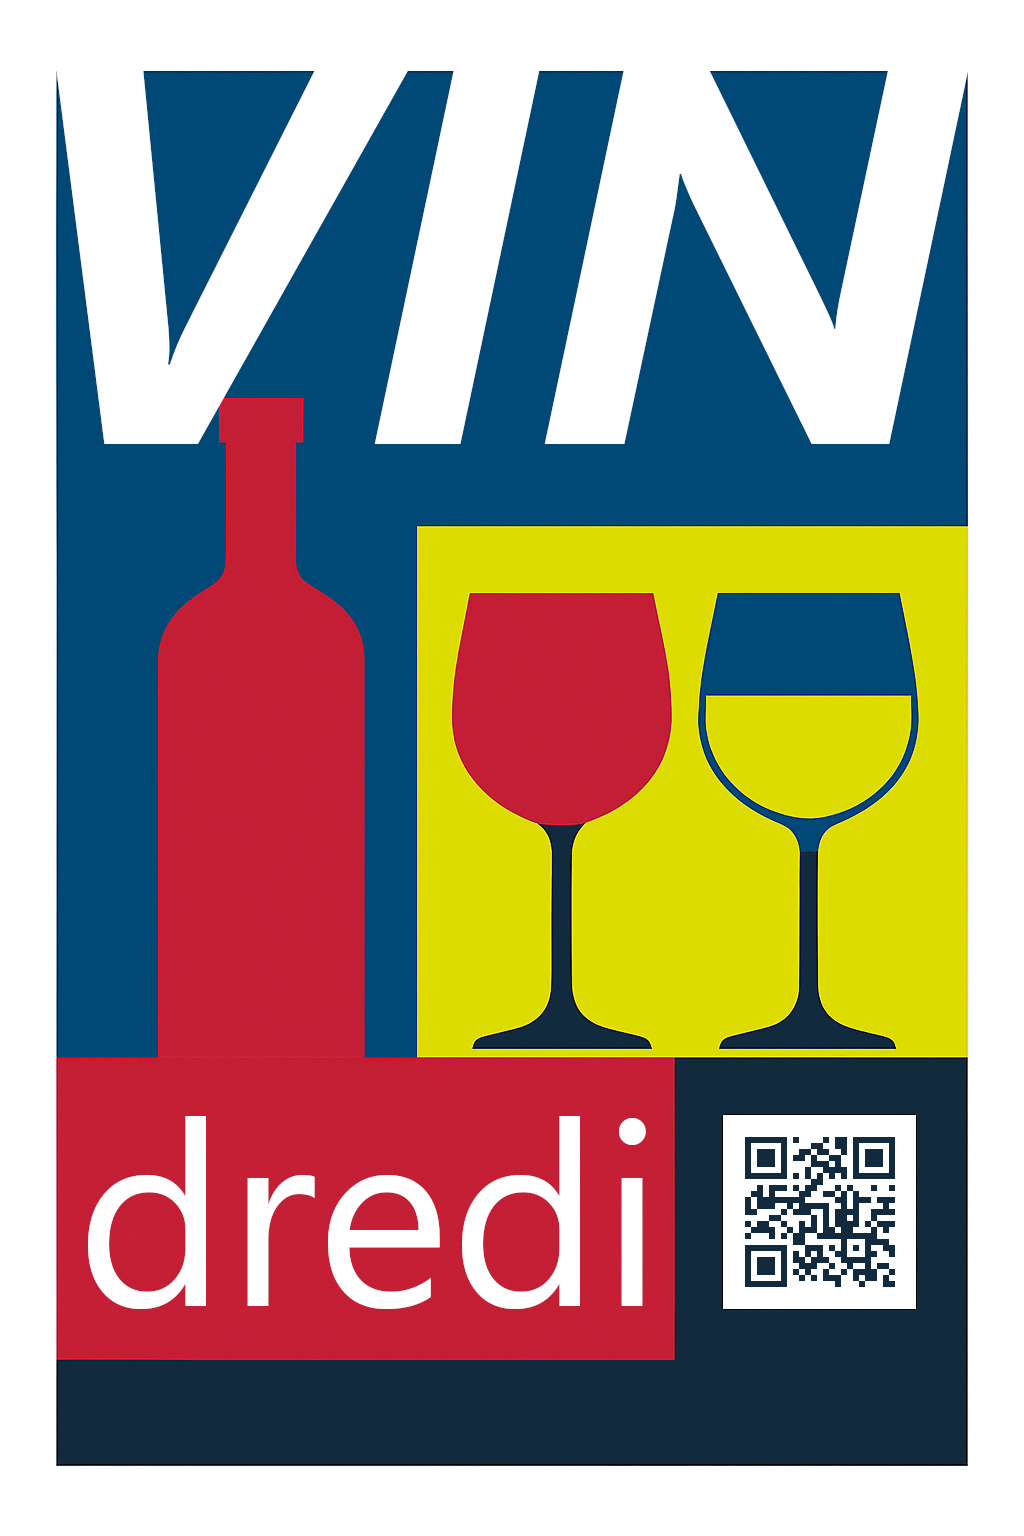
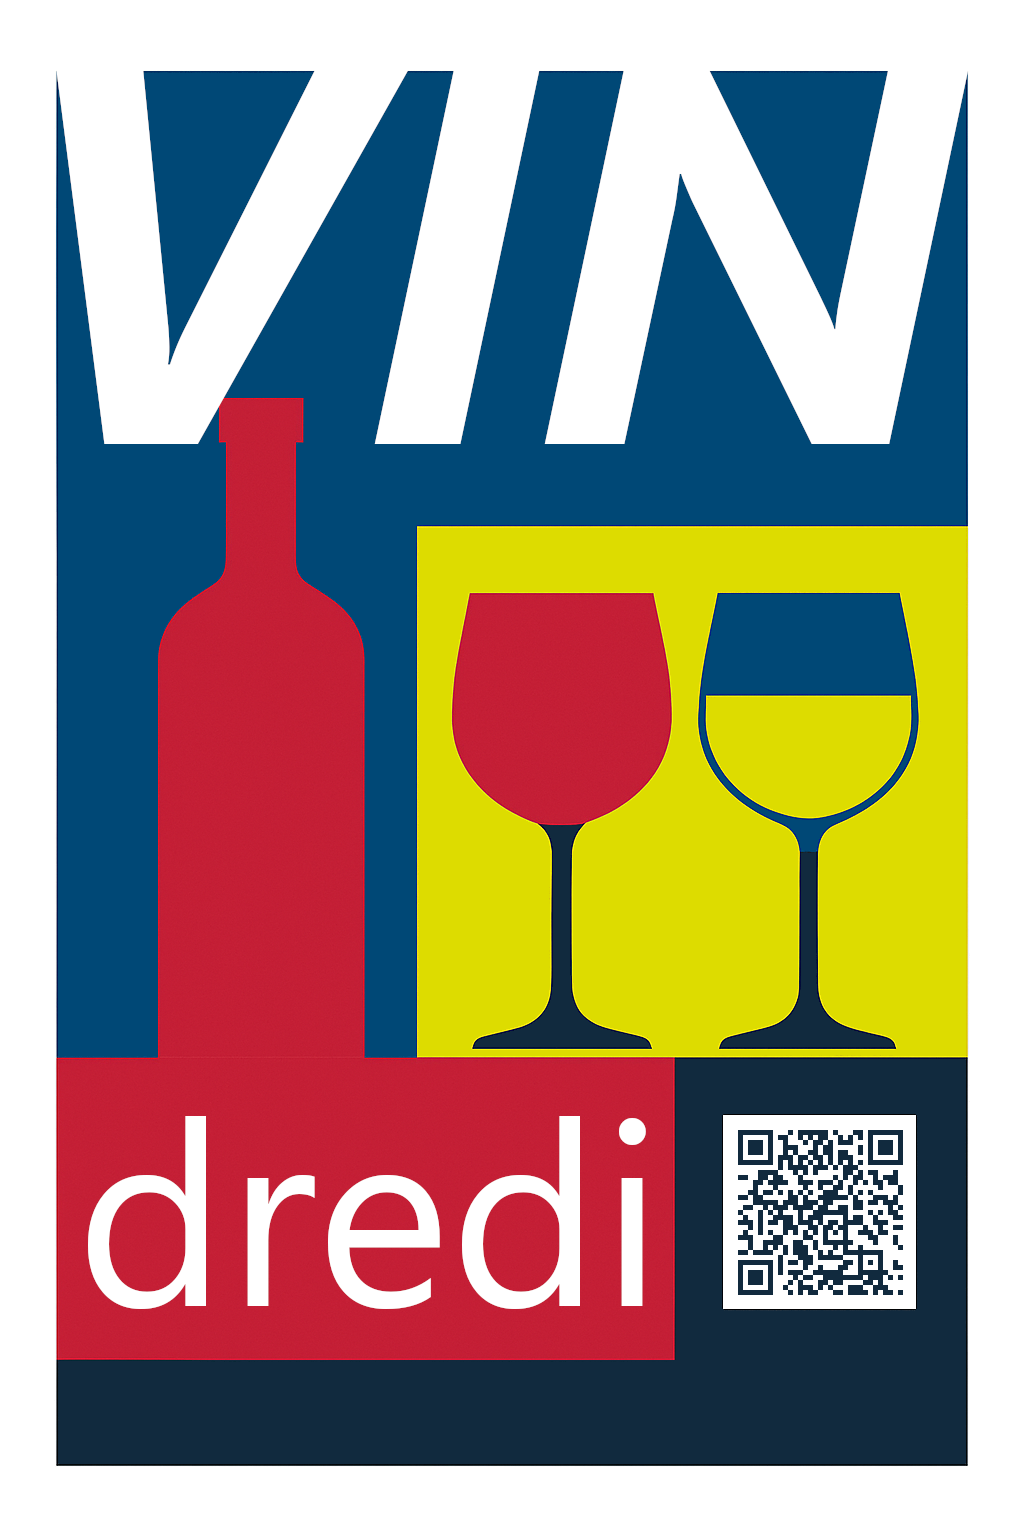
changed details and updated qr code for poster (print ready)

Changed region(s): [[0.7188, 0.7188, 0.9062, 0.8438]]

diff --git a/index.html b/index.html
@@ -158,9 +158,10 @@
                             Verkostungsabenteuer nicht mit anderen weinbegeisterten Kommiliton:innen zu teilen.<br><br>
                             Wenn Du also neugierig bist, wie irgendeine seltene Rebe abgefüllt von einem kleinen Weingut
                             in den
-                            1990ern schmeckt, dann bist Du hier genau richtig! Fragliche Qualität, garantierter
-                            Spaß!<br><br>
-                            Schreib mir einfach eine Nachricht bis Mittwoch vor der Verkostung und Du bekommst am
+                            1990ern schmeckt, dann bist Du hier genau richtig! <strong>Fragliche Qualität, garantierter
+                                Spaß!</strong><br><br>
+                            <a href="index.html#contact">Schreib mir einfach eine Nachricht</a> bis Mittwoch vor der
+                            Verkostung und Du bekommst am
                             Donnerstag
                             je nach Kapazität eine Zusage mit Details zum Treffpunkt - oder leider eine Absage. Unten
                             findest Du
@@ -169,7 +170,8 @@
                             heißt,
                             wenn Dir die Idee von einem Weinclub mit regelmäßigen Apéros und Blindverkostungen gefällt,
                             dann
-                            engagiere Dich und Freitag wird auch in Zukunft VINdredi sein!</p>
+                            <strong>engagiere Dich und Freitag wird auch in Zukunft VINdredi sein!</strong>
+                        </p>
                     </div>
                     <!-- About EN -->
                     <div class="col-lg-6 content-en" style="display: none;">
@@ -183,15 +185,18 @@
                             other wine-loving fellow students.<br><br>
                             So, if you're curious about how some rare grape variety bottled by a small winery in the
                             1990s
-                            tastes, then you're in the right place! Questionable quality, guaranteed fun!<br><br>
-                            Just send me a message by Wednesday before the tasting, and you'll receive a confirmation
+                            tastes, then you're in the right place! <strong>Questionable quality, guaranteed
+                                fun!</strong><br><br>
+                            <a href="index.html#contact">Just send me a message</a> by Wednesday before the tasting, and
+                            you'll receive a confirmation
                             with
                             details about the meeting point on Thursday if there is still capacity - or unfortunately, a
                             rejection. Below you will find the planned dates.<br><br>
                             This is still a young project that lacks everything except ideas. So, if you like the idea
                             of a wine
-                            club with regular aperitifs and blind tastings, get involved, and Friday will continue to be
-                            VINdredi in the future!</p>
+                            club with regular aperitifs and blind tastings, <strong>get involved, and Friday will
+                                continue to be VINdredi in the future!</strong>
+                        </p>
                     </div>
                     <!-- About FR -->
                     <div class="col-lg-6 content-fr" style="display: none;">
@@ -201,19 +206,21 @@
                             la main
                             sur une caisse de vieux vins et j'ai pensé qu'il serait dommage de ne pas partager cette
                             aventure de
-                            dégustation avec d'autres camarades amateurs de vin.<br><br>
-                            Donc, si vous êtes curieux de savoir comment goûte un cépage rare mise en bouteille par un
+                            dégustation avec d'autres camarades amateurs&middot;rice&middot;s de vin.<br><br>
+                            Donc, si vous êtes curieux&middot;se de savoir comment goûte un cépage rare mise en
+                            bouteille par un
                             petit
-                            domaine dans les années 1990, vous êtes au bon endroit ! Qualité douteuse, plaisir garanti
-                            !<br><br>
-                            Envoyez-moi simplement un message avant mercredi avant la dégustation, et vous recevrez une
+                            domaine dans les années 1990, vous êtes au bon endroit ! <strong>Qualité douteuse, plaisir
+                                garanti !</strong><br><br>
+                            <a href="index.html#contact">Envoyez-moi simplement un message</a> jusqu'au mercredi avant
+                            la dégustation, et vous recevrez une
                             confirmation avec les détails du point de rencontre jeudi, en fonction de la capacité - ou
                             malheureusement, un refus. Vous trouverez ci-dessous les dates prévues.<br><br>
                             Il s'agit encore d'un jeune projet qui manque de tout sauf d'idées. Donc, si l'idée d'un
                             club de vin
-                            avec des apéros réguliers et des dégustations à l'aveugle vous plaît, engagez-vous, et le
-                            vendredi
-                            continuera d'être VINdredi à l'avenir !</p>
+                            avec des apéros réguliers et des dégustations à l'aveugle vous plaît, <strong>engagez-vous,
+                                et le vendredi continuera d'être VINdredi à l'avenir !</strong>
+                        </p>
                     </div>
                 </div>
             </div>
@@ -325,8 +332,8 @@
                     <a class="link-light small" href="imprint.html">Impressum</a>
                     <span class="text-white mx-1">&middot;</span>
                     <a class="link-light small" href="privacy.html">Datenschutz</a>
-                    <span class="text-white mx-1">&middot;</span>
-                    <a class="link-light small" href="index.html#contact">Kontakt</a>
+                    <!--span class="text-white mx-1">&middot;</span>
+                        <a class="link-light small" href="index.html#contact">Kontakt</a-->
                 </div>
             </div>
             <!-- Footer EN -->
@@ -342,8 +349,8 @@
                     <a class="link-light small" href="imprint.html">Imprint</a>
                     <span class="text-white mx-1">&middot;</span>
                     <a class="link-light small" href="privacy.html">Data privacy</a>
-                    <span class="text-white mx-1">&middot;</span>
-                    <a class="link-light small" href="index.html#contact">Contact</a>
+                    <!--span class="text-white mx-1">&middot;</span>
+                        <a class="link-light small" href="index.html#contact">Contact</a-->
                 </div>
             </div>
             <!-- Footer FR -->
@@ -359,8 +366,8 @@
                     <a class="link-light small" href="imprint.html">Mentions légales</a>
                     <span class="text-white mx-1">&middot;</span>
                     <a class="link-light small" href="privacy.html">Protection des données</a>
-                    <span class="text-white mx-1">&middot;</span>
-                    <a class="link-light small" href="index.html#contact">Contact</a>
+                    <!--span class="text-white mx-1">&middot;</span>
+                        <a class="link-light small" href="index.html#contact">Contact</a-->
                 </div>
             </div>
         </div>

diff --git a/assets/main.js b/assets/main.js
@@ -50,11 +50,11 @@ var Sr=(R,M)=>()=>(M||R((M={exports:{}}).exports,M),M.exports);var Dr=Sr((rs,vi)
             <li class="page-item ${z===$?"disabled":""}">
                 <a class="page-link" href="#" data-blog-page="${$}">Last »</a>
             </li>
-        `,document.querySelectorAll("[data-blog-page]").forEach(te=>{te.addEventListener("click",function(ie){ie.preventDefault();const E=parseInt(this.getAttribute("data-blog-page"));E>=1&&E<=$&&(z=E,ee(z))})})}Ce(z);const D=[{date_en:"2025/04/25, 18:00",title_en:"- Weingut Erwin Biedert (Weingut Klaus Biedert), D-67592 Flörsheim-Dalsheim: Faberrebe Spätlese, Rheinhessen, Nieder-Florsheimer Burg Rodenstein, 1993, 10.5%<br>- Weingut Wolff-Roll, D-67596 Dittelsheim: Kerner Spätlese, Rheinhessen, Dittelsheimer Mönchhube, 1994, 9.5%",link:"#!"},{date_en:"2025/05/09, 18:00",title_en:"- Weingut Himmel, D-65239 Hochheim: Riesling Spätlese, Rheingau, Hochheimer Stielweg, 1996, 11.5%<br>- Weinvertrieb Sonnenberg GmbH (Weinhaus am Sonnenberg GmbH), D-67273 Weisenheim am Berg: Gewürztraminer Spätlese halbtrocken, Pfalz, 1996, 13%<br>Die Winzer vom Sonnenberg EG (Weinhaus am Sonnenberg GmbH), D-67273 Weisenheim am Berg: Kerner Spätlese trocken, Pfalz, Weisenheimer Vogelsang, 1997, 13.5%",link:"#!"},{date_en:"2025/05/16, 18:00",title_en:"- Weingut Josef Mohr (Weinhaus Mohr GmbH & Co. KG), D-64625 Bensheim: Riesling Spätlese trocken, Hessische Bergstraße, Bensheimer Paulus, 1997, 11.5%<br>- Weingut Josef Mohr (Weinhaus Mohr GmbH & Co. KG), D-64625 Bensheim: Grauer Burgunder Spätlese trocken, Hessische Bergstraße, Bensheimer Paulus, 1998, 12%",link:"#!"},{date_en:"2025/05/23, 18:00",title_en:"- Cave de Cleebourg, F-67160 Cleebourg: Pinot-Noir, Alsace, , 1998, 12%<br>- Rheno-Palatia Weinkellerei u. Weinvertriebs-GmbH, D-76879 Hochstadt: Spätlese, Pfalz, Weingartener Trappenberg, 2000, 9.5%",link:"#!"},{date_en:"2025/05/30, 18:00",title_en:"- Weingut H. Freiberger oHG (Weingut Freiberger oHG), D-64646 Heppenheim a.d. Bergstraße: Riesling Spätlese feinherb, Hessische Bergstraße, Heppenheimer Stemmler, 2004, 13.5%<br>- Weingut H. Freiberger oHG (Weingut Freiberger oHG), D-64646 Heppenheim a.d. Bergstraße: Riesling Spätlese trocken, Hessische Bergstraße, Heppenheimer Steinkopf, 2004, 12%",link:"#!"}],q=3;let j=1;function ee(T){const $=(T-1)*q,te=$+q,ie=D.slice($,te),E=document.getElementById("event-list");E&&(E.innerHTML="",ie.forEach(U=>{const Fe=`
+        `,document.querySelectorAll("[data-blog-page]").forEach(te=>{te.addEventListener("click",function(ie){ie.preventDefault();const E=parseInt(this.getAttribute("data-blog-page"));E>=1&&E<=$&&(z=E,ee(z))})})}Ce(z);const D=[{date_en:"2025/04/25, 18:00",title_en:"- Weingut Erwin Biedert (Weingut Klaus Biedert), D-67592 Flörsheim-Dalsheim: Faberrebe Spätlese, Rheinhessen, Nieder-Florsheimer Burg Rodenstein, 1993, 10.5%<br>- Weingut Wolff-Roll, D-67596 Dittelsheim: Kerner Spätlese, Rheinhessen, Dittelsheimer Mönchhube, 1994, 9.5%",link:"#!"},{date_en:"2025/05/09, 18:00",title_en:"- Weingut Himmel, D-65239 Hochheim: Riesling Spätlese, Rheingau, Hochheimer Stielweg, 1996, 11.5%<br>- Weinvertrieb Sonnenberg GmbH (Weinhaus am Sonnenberg GmbH), D-67273 Weisenheim am Berg: Gewürztraminer Spätlese halbtrocken, Pfalz, 1996, 13%<br>- Die Winzer vom Sonnenberg EG (Weinhaus am Sonnenberg GmbH), D-67273 Weisenheim am Berg: Kerner Spätlese trocken, Pfalz, Weisenheimer Vogelsang, 1997, 13.5%",link:"#!"},{date_en:"2025/05/16, 18:00",title_en:"- Weingut Josef Mohr (Weinhaus Mohr GmbH & Co. KG), D-64625 Bensheim: Riesling Spätlese trocken, Hessische Bergstraße, Bensheimer Paulus, 1997, 11.5%<br>- Weingut Josef Mohr (Weinhaus Mohr GmbH & Co. KG), D-64625 Bensheim: Grauer Burgunder Spätlese trocken, Hessische Bergstraße, Bensheimer Paulus, 1998, 12%",link:"#!"},{date_en:"2025/05/23, 18:00",title_en:"- Cave de Cleebourg, F-67160 Cleebourg: Pinot-Noir, Alsace, , 1998, 12%<br>- Rheno-Palatia Weinkellerei u. Weinvertriebs-GmbH, D-76879 Hochstadt: Spätlese, Pfalz, Weingartener Trappenberg, 2000, 9.5%",link:"#!"},{date_en:"2025/05/30, 18:00",title_en:"- Weingut H. Freiberger oHG (Weingut Freiberger oHG), D-64646 Heppenheim a.d. Bergstraße: Riesling Spätlese feinherb, Hessische Bergstraße, Heppenheimer Stemmler, 2004, 13.5%<br>- Weingut H. Freiberger oHG (Weingut Freiberger oHG), D-64646 Heppenheim a.d. Bergstraße: Riesling Spätlese trocken, Hessische Bergstraße, Heppenheimer Steinkopf, 2004, 12%",link:"#!"}],q=3;let j=1;function ee(T){const $=(T-1)*q,te=$+q,ie=D.slice($,te),E=document.getElementById("event-list");E&&(E.innerHTML="",ie.forEach(U=>{const Fe=`
             <div class="mb-5">
                 <div class="small text-muted">${U.date_en}</div>
                 <a class="link-dark">
-                    <h5">${U.title_en}</h5>
+                    <h4">${U.title_en}</h4>
                 </a>
             </div>
         `;E.innerHTML+=Fe}),pt())}function pt(){const T=document.getElementById("event-pagination");if(!T)return;const $=Math.ceil(D.length/q);T.innerHTML="",T.innerHTML+=`

diff --git a/privacy.html b/privacy.html
@@ -581,8 +581,8 @@
                     <a class="link-light small" href="imprint.html">Impressum</a>
                     <span class="text-white mx-1">&middot;</span>
                     <a class="link-light small" href="privacy.html">Datenschutz</a>
-                    <span class="text-white mx-1">&middot;</span>
-                    <a class="link-light small" href="index.html#contact">Kontakt</a>
+                    <!--span class="text-white mx-1">&middot;</span>
+                        <a class="link-light small" href="index.html#contact">Kontakt</a-->
                 </div>
             </div>
             <!-- Footer EN -->
@@ -598,8 +598,8 @@
                     <a class="link-light small" href="imprint.html">Imprint</a>
                     <span class="text-white mx-1">&middot;</span>
                     <a class="link-light small" href="privacy.html">Data privacy</a>
-                    <span class="text-white mx-1">&middot;</span>
-                    <a class="link-light small" href="index.html#contact">Contact</a>
+                    <!--span class="text-white mx-1">&middot;</span>
+                        <a class="link-light small" href="index.html#contact">Contact</a-->
                 </div>
             </div>
             <!-- Footer FR -->
@@ -615,8 +615,8 @@
                     <a class="link-light small" href="imprint.html">Mentions légales</a>
                     <span class="text-white mx-1">&middot;</span>
                     <a class="link-light small" href="privacy.html">Protection des données</a>
-                    <span class="text-white mx-1">&middot;</span>
-                    <a class="link-light small" href="index.html#contact">Contact</a>
+                    <!--span class="text-white mx-1">&middot;</span>
+                        <a class="link-light small" href="index.html#contact">Contact</a-->
                 </div>
             </div>
         </div>

diff --git a/imprint.html b/imprint.html
@@ -204,8 +204,8 @@
                     <a class="link-light small" href="imprint.html">Impressum</a>
                     <span class="text-white mx-1">&middot;</span>
                     <a class="link-light small" href="privacy.html">Datenschutz</a>
-                    <span class="text-white mx-1">&middot;</span>
-                    <a class="link-light small" href="index.html#contact">Kontakt</a>
+                    <!--span class="text-white mx-1">&middot;</span>
+                    <a class="link-light small" href="index.html#contact">Kontakt</a-->
                 </div>
             </div>
             <!-- Footer EN -->
@@ -221,8 +221,8 @@
                     <a class="link-light small" href="imprint.html">Imprint</a>
                     <span class="text-white mx-1">&middot;</span>
                     <a class="link-light small" href="privacy.html">Data privacy</a>
-                    <span class="text-white mx-1">&middot;</span>
-                    <a class="link-light small" href="index.html#contact">Contact</a>
+                    <!--span class="text-white mx-1">&middot;</span>
+                    <a class="link-light small" href="index.html#contact">Contact</a-->
                 </div>
             </div>
             <!-- Footer FR -->
@@ -238,8 +238,8 @@
                     <a class="link-light small" href="imprint.html">Mentions légales</a>
                     <span class="text-white mx-1">&middot;</span>
                     <a class="link-light small" href="privacy.html">Protection des données</a>
-                    <span class="text-white mx-1">&middot;</span>
-                    <a class="link-light small" href="index.html#contact">Contact</a>
+                    <!--span class="text-white mx-1">&middot;</span>
+                    <a class="link-light small" href="index.html#contact">Contact</a-->
                 </div>
             </div>
         </div>
